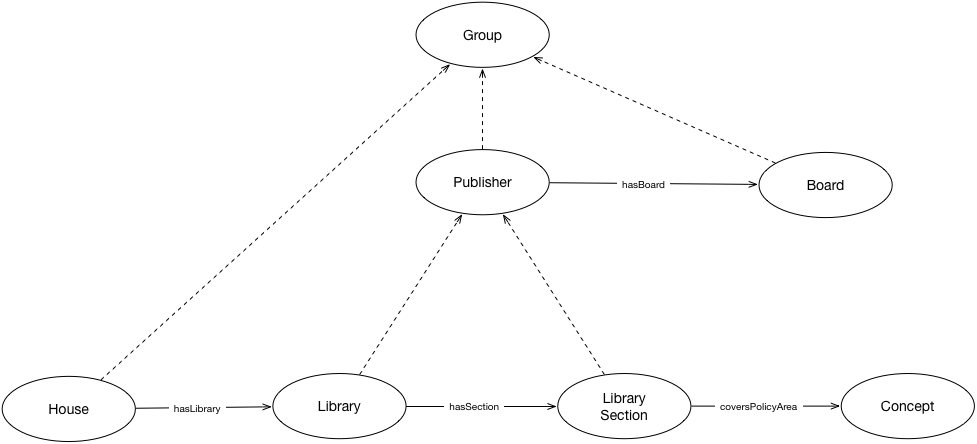
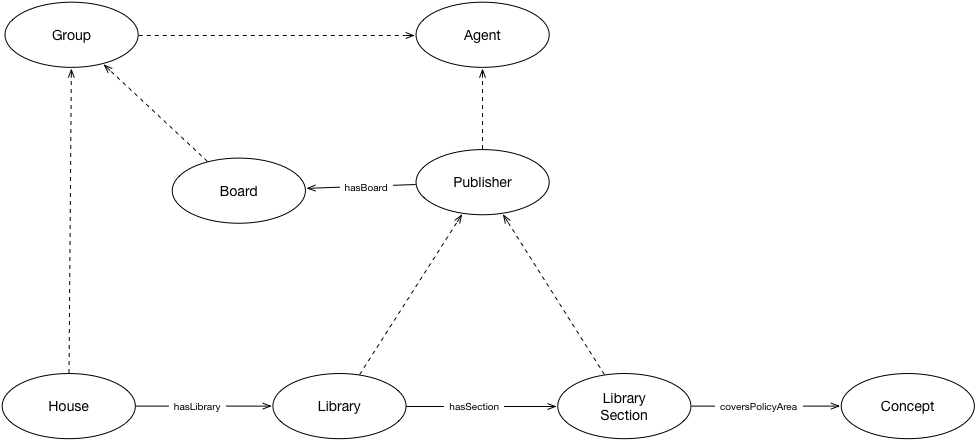
made publisher into subclass of agency

diff --git a/publisher/publisher-ontology.html b/publisher/publisher-ontology.html
@@ -6,6 +6,8 @@
 
 
 
+
+
 	
 
 
@@ -46,4 +48,6 @@
 
 
 
-<div id="classes"><h2>Classes</h2><ul class="hlist"><li><a href="#d4e86" title="http://parliament.uk/ontologies/publisher/Board">Board</a></li><li><a href="#d4e99" title="http://parliament.uk/ontologies/publisher/Concept">Concept</a></li><li><a href="#d4e110" title="http://parliament.uk/ontologies/publisher/Group">Group</a></li><li><a href="#d4e122" title="http://parliament.uk/ontologies/publisher/House">House</a></li><li><a href="#d4e135" title="http://parliament.uk/ontologies/publisher/Library">Library</a></li><li><a href="#d4e148" title="http://parliament.uk/ontologies/publisher/LibrarySection">LibrarySection</a></li><li><a href="#d4e162" title="http://parliament.uk/ontologies/publisher/Publisher">Publisher</a></li></ul><div id="d4e86" class="entity"><a name="http://parliament.uk/ontologies/publisher/Board"></a><h3>Board<sup title="class" class="type-c">c</sup><span class="backlink"> back to <a href="#toc">ToC</a> or <a href="#classes">Class ToC</a></span></h3><p><strong>IRI:</strong> http://parliament.uk/ontologies/publisher/Board</p><div class="comment"><span class="markdown">A group of people who direct the publisher e.g. POST has a board made up of Members of Parliament who consider and approve research areas to be covered.</span></div><dl class="description"><dt>has super-classes</dt><dd><a href="#d4e110" title="http://parliament.uk/ontologies/publisher/Group">Group</a><sup title="class" class="type-c">c</sup></dd><dt>is in range of</dt><dd><a href="#d4e38" title="http://parliament.uk/ontologies/publisher/hasBoard">hasBoard</a><sup title="object property" class="type-op">op</sup></dd></dl></div><div id="d4e99" class="entity"><a name="http://parliament.uk/ontologies/publisher/Concept"></a><h3>Concept<sup title="class" class="type-c">c</sup><span class="backlink"> back to <a href="#toc">ToC</a> or <a href="#classes">Class ToC</a></span></h3><p><strong>IRI:</strong> http://parliament.uk/ontologies/publisher/Concept</p><div class="comment"><span class="markdown">A concept. Similar to a SKOS concept / a library subject term.</span></div><dl class="description"><dt>is in range of</dt><dd><a href="#d4e22" title="http://parliament.uk/ontologies/publisher/coversPolicyArea">coversPolicyArea</a><sup title="object property" class="type-op">op</sup></dd></dl></div><div id="d4e110" class="entity"><a name="http://parliament.uk/ontologies/publisher/Group"></a><h3>Group<sup title="class" class="type-c">c</sup><span class="backlink"> back to <a href="#toc">ToC</a> or <a href="#classes">Class ToC</a></span></h3><p><strong>IRI:</strong> http://parliament.uk/ontologies/publisher/Group</p><div class="comment"><span class="markdown">A group of people or a group of groups or a group of people and groups.</span></div><dl class="description"><dt>has sub-classes</dt><dd><a href="#d4e86" title="http://parliament.uk/ontologies/publisher/Board">Board</a><sup title="class" class="type-c">c</sup>, <a href="#d4e122" title="http://parliament.uk/ontologies/publisher/House">House</a><sup title="class" class="type-c">c</sup>, <a href="#d4e162" title="http://parliament.uk/ontologies/publisher/Publisher">Publisher</a><sup title="class" class="type-c">c</sup></dd></dl></div><div id="d4e122" class="entity"><a name="http://parliament.uk/ontologies/publisher/House"></a><h3>House<sup title="class" class="type-c">c</sup><span class="backlink"> back to <a href="#toc">ToC</a> or <a href="#classes">Class ToC</a></span></h3><p><strong>IRI:</strong> http://parliament.uk/ontologies/publisher/House</p><div class="comment"><span class="markdown">A parliamentary House e.g. the House of Lords.</span></div><dl class="description"><dt>has super-classes</dt><dd><a href="#d4e110" title="http://parliament.uk/ontologies/publisher/Group">Group</a><sup title="class" class="type-c">c</sup></dd><dt>is in domain of</dt><dd><a href="#d4e53" title="http://parliament.uk/ontologies/publisher/hasLibrary">hasLibrary</a><sup title="object property" class="type-op">op</sup></dd></dl></div><div id="d4e135" class="entity"><a name="http://parliament.uk/ontologies/publisher/Library"></a><h3>Library<sup title="class" class="type-c">c</sup><span class="backlink"> back to <a href="#toc">ToC</a> or <a href="#classes">Class ToC</a></span></h3><p><strong>IRI:</strong> http://parliament.uk/ontologies/publisher/Library</p><div class="comment"><span class="markdown">One of the two parliamentary libraries. Either the House of Commons Library or the House of Lords Library.</span></div><dl class="description"><dt>has super-classes</dt><dd><a href="#d4e162" title="http://parliament.uk/ontologies/publisher/Publisher">Publisher</a><sup title="class" class="type-c">c</sup></dd><dt>is in domain of</dt><dd><a href="#d4e68" title="http://parliament.uk/ontologies/publisher/hasSection">hasSection</a><sup title="object property" class="type-op">op</sup></dd><dt>is in range of</dt><dd><a href="#d4e53" title="http://parliament.uk/ontologies/publisher/hasLibrary">hasLibrary</a><sup title="object property" class="type-op">op</sup></dd></dl></div><div id="d4e148" class="entity"><a name="http://parliament.uk/ontologies/publisher/LibrarySection"></a><h3>LibrarySection<sup title="class" class="type-c">c</sup><span class="backlink"> back to <a href="#toc">ToC</a> or <a href="#classes">Class ToC</a></span></h3><p><strong>IRI:</strong> http://parliament.uk/ontologies/publisher/LibrarySection</p><div class="comment"><span class="markdown">The House of Commons Library is divided into sections some of which are research sections and publishers. e.g. the Parliament and Constitution Centre.</span></div><dl class="description"><dt>has super-classes</dt><dd><a href="#d4e162" title="http://parliament.uk/ontologies/publisher/Publisher">Publisher</a><sup title="class" class="type-c">c</sup></dd><dt>is in domain of</dt><dd><a href="#d4e22" title="http://parliament.uk/ontologies/publisher/coversPolicyArea">coversPolicyArea</a><sup title="object property" class="type-op">op</sup></dd><dt>is in range of</dt><dd><a href="#d4e68" title="http://parliament.uk/ontologies/publisher/hasSection">hasSection</a><sup title="object property" class="type-op">op</sup></dd></dl></div><div id="d4e162" class="entity"><a name="http://parliament.uk/ontologies/publisher/Publisher"></a><h3>Publisher<sup title="class" class="type-c">c</sup><span class="backlink"> back to <a href="#toc">ToC</a> or <a href="#classes">Class ToC</a></span></h3><p><strong>IRI:</strong> http://parliament.uk/ontologies/publisher/Publisher</p><div class="comment"><span class="markdown">A publisher of recorded material.</span></div><dl class="description"><dt>has super-classes</dt><dd><a href="#d4e110" title="http://parliament.uk/ontologies/publisher/Group">Group</a><sup title="class" class="type-c">c</sup></dd><dt>has sub-classes</dt><dd><a href="#d4e135" title="http://parliament.uk/ontologies/publisher/Library">Library</a><sup title="class" class="type-c">c</sup>, <a href="#d4e148" title="http://parliament.uk/ontologies/publisher/LibrarySection">LibrarySection</a><sup title="class" class="type-c">c</sup></dd><dt>is in domain of</dt><dd><a href="#d4e38" title="http://parliament.uk/ontologies/publisher/hasBoard">hasBoard</a><sup title="object property" class="type-op">op</sup></dd></dl></div></div><div id="objectproperties"><h2>Object Properties</h2><ul class="hlist"><li><a href="#d4e22" title="http://parliament.uk/ontologies/publisher/coversPolicyArea">coversPolicyArea</a></li><li><a href="#d4e38" title="http://parliament.uk/ontologies/publisher/hasBoard">hasBoard</a></li><li><a href="#d4e53" title="http://parliament.uk/ontologies/publisher/hasLibrary">hasLibrary</a></li><li><a href="#d4e68" title="http://parliament.uk/ontologies/publisher/hasSection">hasSection</a></li></ul><div id="d4e22" class="entity"><a name="http://parliament.uk/ontologies/publisher/coversPolicyArea"></a><h3>coversPolicyArea<sup title="object property" class="type-op">op</sup><span class="backlink"> back to <a href="#toc">ToC</a> or <a href="#objectproperties">Object Property ToC</a></span></h3><p><strong>IRI:</strong> http://parliament.uk/ontologies/publisher/coversPolicyArea</p><div class="comment"><span class="markdown">Relates a library section to a policy area or policy areas as a SKOS-like concept.</span></div><div class="description"><dl><dt>has domain</dt><dd><a href="#d4e148" title="http://parliament.uk/ontologies/publisher/LibrarySection">LibrarySection</a><sup title="class" class="type-c">c</sup></dd><dt>has range</dt><dd><a href="#d4e99" title="http://parliament.uk/ontologies/publisher/Concept">Concept</a><sup title="class" class="type-c">c</sup></dd></dl></div></div><div id="d4e38" class="entity"><a name="http://parliament.uk/ontologies/publisher/hasBoard"></a><h3>hasBoard<sup title="object property" class="type-op">op</sup><span class="backlink"> back to <a href="#toc">ToC</a> or <a href="#objectproperties">Object Property ToC</a></span></h3><p><strong>IRI:</strong> http://parliament.uk/ontologies/publisher/hasBoard</p><div class="comment"><span class="markdown">Relates a publisher to its board.</span></div><div class="description"><dl><dt>has domain</dt><dd><a href="#d4e162" title="http://parliament.uk/ontologies/publisher/Publisher">Publisher</a><sup title="class" class="type-c">c</sup></dd><dt>has range</dt><dd><a href="#d4e86" title="http://parliament.uk/ontologies/publisher/Board">Board</a><sup title="class" class="type-c">c</sup></dd></dl></div></div><div id="d4e53" class="entity"><a name="http://parliament.uk/ontologies/publisher/hasLibrary"></a><h3>hasLibrary<sup title="object property" class="type-op">op</sup><span class="backlink"> back to <a href="#toc">ToC</a> or <a href="#objectproperties">Object Property ToC</a></span></h3><p><strong>IRI:</strong> http://parliament.uk/ontologies/publisher/hasLibrary</p><div class="comment"><span class="markdown">Relates a House to its library.</span></div><div class="description"><dl><dt>has domain</dt><dd><a href="#d4e122" title="http://parliament.uk/ontologies/publisher/House">House</a><sup title="class" class="type-c">c</sup></dd><dt>has range</dt><dd><a href="#d4e135" title="http://parliament.uk/ontologies/publisher/Library">Library</a><sup title="class" class="type-c">c</sup></dd></dl></div></div><div id="d4e68" class="entity"><a name="http://parliament.uk/ontologies/publisher/hasSection"></a><h3>hasSection<sup title="object property" class="type-op">op</sup><span class="backlink"> back to <a href="#toc">ToC</a> or <a href="#objectproperties">Object Property ToC</a></span></h3><p><strong>IRI:</strong> http://parliament.uk/ontologies/publisher/hasSection</p><div class="comment"><span class="markdown">Relates a library to a section.</span></div><div class="description"><dl><dt>has domain</dt><dd><a href="#d4e135" title="http://parliament.uk/ontologies/publisher/Library">Library</a><sup title="class" class="type-c">c</sup></dd><dt>has range</dt><dd><a href="#d4e148" title="http://parliament.uk/ontologies/publisher/LibrarySection">LibrarySection</a><sup title="class" class="type-c">c</sup></dd></dl></div></div></div><div id="namespacedeclarations"><h2>Namespace Declarations <span class="backlink"> back to <a href="#toc">ToC</a></span></h2><dl><dt><em>default namespace</em></dt><dd>http://parliament.uk/ontologies/publisher/</dd><dt>owl</dt><dd>http://www.w3.org/2002/07/owl#</dd><dt>rdf</dt><dd>http://www.w3.org/1999/02/22-rdf-syntax-ns#</dd><dt>rdfs</dt><dd>http://www.w3.org/2000/01/rdf-schema#</dd><dt>terms</dt><dd>http://purl.org/dc/terms/</dd><dt>xsd</dt><dd>http://www.w3.org/2001/XMLSchema#</dd></dl></div><p class="endnote">This HTML document was obtained by processing the OWL ontology source code through <a href="http://www.essepuntato.it/lode">LODE</a>, <em>Live OWL Documentation Environment</em>, developed by <a href="http://www.essepuntato.it">Silvio Peroni</a>.</p></body></html>
+
+
+<div id="classes"><h2>Classes</h2><ul class="hlist"><li><a href="#d4e86" title="http://parliament.uk/ontologies/publisher/Agent">Agent</a></li><li><a href="#d4e97" title="http://parliament.uk/ontologies/publisher/Board">Board</a></li><li><a href="#d4e110" title="http://parliament.uk/ontologies/publisher/Concept">Concept</a></li><li><a href="#d4e122" title="http://parliament.uk/ontologies/publisher/Group">Group</a></li><li><a href="#d4e135" title="http://parliament.uk/ontologies/publisher/House">House</a></li><li><a href="#d4e148" title="http://parliament.uk/ontologies/publisher/Library">Library</a></li><li><a href="#d4e162" title="http://parliament.uk/ontologies/publisher/LibrarySection">LibrarySection</a></li><li><a href="#d4e175" title="http://parliament.uk/ontologies/publisher/Publisher">Publisher</a></li></ul><div id="d4e86" class="entity"><a name="http://parliament.uk/ontologies/publisher/Agent"></a><h3>Agent<sup title="class" class="type-c">c</sup><span class="backlink"> back to <a href="#toc">ToC</a> or <a href="#classes">Class ToC</a></span></h3><p><strong>IRI:</strong> http://parliament.uk/ontologies/publisher/Agent</p><div class="comment"><span class="markdown">An agent. The superset of all people and all groups of people.</span></div><dl class="description"><dt>has sub-classes</dt><dd><a href="#d4e122" title="http://parliament.uk/ontologies/publisher/Group">Group</a><sup title="class" class="type-c">c</sup>, <a href="#d4e175" title="http://parliament.uk/ontologies/publisher/Publisher">Publisher</a><sup title="class" class="type-c">c</sup></dd></dl></div><div id="d4e97" class="entity"><a name="http://parliament.uk/ontologies/publisher/Board"></a><h3>Board<sup title="class" class="type-c">c</sup><span class="backlink"> back to <a href="#toc">ToC</a> or <a href="#classes">Class ToC</a></span></h3><p><strong>IRI:</strong> http://parliament.uk/ontologies/publisher/Board</p><div class="comment"><span class="markdown">A group of people who direct the publisher e.g. POST has a board made up of Members of Parliament who consider and approve research areas to be covered.</span></div><dl class="description"><dt>has super-classes</dt><dd><a href="#d4e122" title="http://parliament.uk/ontologies/publisher/Group">Group</a><sup title="class" class="type-c">c</sup></dd><dt>is in range of</dt><dd><a href="#d4e38" title="http://parliament.uk/ontologies/publisher/hasBoard">hasBoard</a><sup title="object property" class="type-op">op</sup></dd></dl></div><div id="d4e110" class="entity"><a name="http://parliament.uk/ontologies/publisher/Concept"></a><h3>Concept<sup title="class" class="type-c">c</sup><span class="backlink"> back to <a href="#toc">ToC</a> or <a href="#classes">Class ToC</a></span></h3><p><strong>IRI:</strong> http://parliament.uk/ontologies/publisher/Concept</p><div class="comment"><span class="markdown">A concept. Similar to a SKOS concept / a library subject term.</span></div><dl class="description"><dt>is in range of</dt><dd><a href="#d4e22" title="http://parliament.uk/ontologies/publisher/coversPolicyArea">coversPolicyArea</a><sup title="object property" class="type-op">op</sup></dd></dl></div><div id="d4e122" class="entity"><a name="http://parliament.uk/ontologies/publisher/Group"></a><h3>Group<sup title="class" class="type-c">c</sup><span class="backlink"> back to <a href="#toc">ToC</a> or <a href="#classes">Class ToC</a></span></h3><p><strong>IRI:</strong> http://parliament.uk/ontologies/publisher/Group</p><div class="comment"><span class="markdown">A group of people or a group of groups or a group of people and groups.</span></div><dl class="description"><dt>has super-classes</dt><dd><a href="#d4e86" title="http://parliament.uk/ontologies/publisher/Agent">Agent</a><sup title="class" class="type-c">c</sup></dd><dt>has sub-classes</dt><dd><a href="#d4e97" title="http://parliament.uk/ontologies/publisher/Board">Board</a><sup title="class" class="type-c">c</sup>, <a href="#d4e135" title="http://parliament.uk/ontologies/publisher/House">House</a><sup title="class" class="type-c">c</sup></dd></dl></div><div id="d4e135" class="entity"><a name="http://parliament.uk/ontologies/publisher/House"></a><h3>House<sup title="class" class="type-c">c</sup><span class="backlink"> back to <a href="#toc">ToC</a> or <a href="#classes">Class ToC</a></span></h3><p><strong>IRI:</strong> http://parliament.uk/ontologies/publisher/House</p><div class="comment"><span class="markdown">A parliamentary House e.g. the House of Lords.</span></div><dl class="description"><dt>has super-classes</dt><dd><a href="#d4e122" title="http://parliament.uk/ontologies/publisher/Group">Group</a><sup title="class" class="type-c">c</sup></dd><dt>is in domain of</dt><dd><a href="#d4e53" title="http://parliament.uk/ontologies/publisher/hasLibrary">hasLibrary</a><sup title="object property" class="type-op">op</sup></dd></dl></div><div id="d4e148" class="entity"><a name="http://parliament.uk/ontologies/publisher/Library"></a><h3>Library<sup title="class" class="type-c">c</sup><span class="backlink"> back to <a href="#toc">ToC</a> or <a href="#classes">Class ToC</a></span></h3><p><strong>IRI:</strong> http://parliament.uk/ontologies/publisher/Library</p><div class="comment"><span class="markdown">One of the two parliamentary libraries. Either the House of Commons Library or the House of Lords Library.</span></div><dl class="description"><dt>has super-classes</dt><dd><a href="#d4e175" title="http://parliament.uk/ontologies/publisher/Publisher">Publisher</a><sup title="class" class="type-c">c</sup></dd><dt>is in domain of</dt><dd><a href="#d4e68" title="http://parliament.uk/ontologies/publisher/hasSection">hasSection</a><sup title="object property" class="type-op">op</sup></dd><dt>is in range of</dt><dd><a href="#d4e53" title="http://parliament.uk/ontologies/publisher/hasLibrary">hasLibrary</a><sup title="object property" class="type-op">op</sup></dd></dl></div><div id="d4e162" class="entity"><a name="http://parliament.uk/ontologies/publisher/LibrarySection"></a><h3>LibrarySection<sup title="class" class="type-c">c</sup><span class="backlink"> back to <a href="#toc">ToC</a> or <a href="#classes">Class ToC</a></span></h3><p><strong>IRI:</strong> http://parliament.uk/ontologies/publisher/LibrarySection</p><div class="comment"><span class="markdown">The House of Commons Library is divided into sections some of which are research sections and publishers. e.g. the Parliament and Constitution Centre.</span></div><dl class="description"><dt>has super-classes</dt><dd><a href="#d4e175" title="http://parliament.uk/ontologies/publisher/Publisher">Publisher</a><sup title="class" class="type-c">c</sup></dd><dt>is in domain of</dt><dd><a href="#d4e22" title="http://parliament.uk/ontologies/publisher/coversPolicyArea">coversPolicyArea</a><sup title="object property" class="type-op">op</sup></dd><dt>is in range of</dt><dd><a href="#d4e68" title="http://parliament.uk/ontologies/publisher/hasSection">hasSection</a><sup title="object property" class="type-op">op</sup></dd></dl></div><div id="d4e175" class="entity"><a name="http://parliament.uk/ontologies/publisher/Publisher"></a><h3>Publisher<sup title="class" class="type-c">c</sup><span class="backlink"> back to <a href="#toc">ToC</a> or <a href="#classes">Class ToC</a></span></h3><p><strong>IRI:</strong> http://parliament.uk/ontologies/publisher/Publisher</p><div class="comment"><span class="markdown">A publisher of recorded material.</span></div><dl class="description"><dt>has super-classes</dt><dd><a href="#d4e86" title="http://parliament.uk/ontologies/publisher/Agent">Agent</a><sup title="class" class="type-c">c</sup></dd><dt>has sub-classes</dt><dd><a href="#d4e148" title="http://parliament.uk/ontologies/publisher/Library">Library</a><sup title="class" class="type-c">c</sup>, <a href="#d4e162" title="http://parliament.uk/ontologies/publisher/LibrarySection">LibrarySection</a><sup title="class" class="type-c">c</sup></dd><dt>is in domain of</dt><dd><a href="#d4e38" title="http://parliament.uk/ontologies/publisher/hasBoard">hasBoard</a><sup title="object property" class="type-op">op</sup></dd></dl></div></div><div id="objectproperties"><h2>Object Properties</h2><ul class="hlist"><li><a href="#d4e22" title="http://parliament.uk/ontologies/publisher/coversPolicyArea">coversPolicyArea</a></li><li><a href="#d4e38" title="http://parliament.uk/ontologies/publisher/hasBoard">hasBoard</a></li><li><a href="#d4e53" title="http://parliament.uk/ontologies/publisher/hasLibrary">hasLibrary</a></li><li><a href="#d4e68" title="http://parliament.uk/ontologies/publisher/hasSection">hasSection</a></li></ul><div id="d4e22" class="entity"><a name="http://parliament.uk/ontologies/publisher/coversPolicyArea"></a><h3>coversPolicyArea<sup title="object property" class="type-op">op</sup><span class="backlink"> back to <a href="#toc">ToC</a> or <a href="#objectproperties">Object Property ToC</a></span></h3><p><strong>IRI:</strong> http://parliament.uk/ontologies/publisher/coversPolicyArea</p><div class="comment"><span class="markdown">Relates a library section to a policy area or policy areas as a SKOS-like concept.</span></div><div class="description"><dl><dt>has domain</dt><dd><a href="#d4e162" title="http://parliament.uk/ontologies/publisher/LibrarySection">LibrarySection</a><sup title="class" class="type-c">c</sup></dd><dt>has range</dt><dd><a href="#d4e110" title="http://parliament.uk/ontologies/publisher/Concept">Concept</a><sup title="class" class="type-c">c</sup></dd></dl></div></div><div id="d4e38" class="entity"><a name="http://parliament.uk/ontologies/publisher/hasBoard"></a><h3>hasBoard<sup title="object property" class="type-op">op</sup><span class="backlink"> back to <a href="#toc">ToC</a> or <a href="#objectproperties">Object Property ToC</a></span></h3><p><strong>IRI:</strong> http://parliament.uk/ontologies/publisher/hasBoard</p><div class="comment"><span class="markdown">Relates a publisher to its board.</span></div><div class="description"><dl><dt>has domain</dt><dd><a href="#d4e175" title="http://parliament.uk/ontologies/publisher/Publisher">Publisher</a><sup title="class" class="type-c">c</sup></dd><dt>has range</dt><dd><a href="#d4e97" title="http://parliament.uk/ontologies/publisher/Board">Board</a><sup title="class" class="type-c">c</sup></dd></dl></div></div><div id="d4e53" class="entity"><a name="http://parliament.uk/ontologies/publisher/hasLibrary"></a><h3>hasLibrary<sup title="object property" class="type-op">op</sup><span class="backlink"> back to <a href="#toc">ToC</a> or <a href="#objectproperties">Object Property ToC</a></span></h3><p><strong>IRI:</strong> http://parliament.uk/ontologies/publisher/hasLibrary</p><div class="comment"><span class="markdown">Relates a House to its library.</span></div><div class="description"><dl><dt>has domain</dt><dd><a href="#d4e135" title="http://parliament.uk/ontologies/publisher/House">House</a><sup title="class" class="type-c">c</sup></dd><dt>has range</dt><dd><a href="#d4e148" title="http://parliament.uk/ontologies/publisher/Library">Library</a><sup title="class" class="type-c">c</sup></dd></dl></div></div><div id="d4e68" class="entity"><a name="http://parliament.uk/ontologies/publisher/hasSection"></a><h3>hasSection<sup title="object property" class="type-op">op</sup><span class="backlink"> back to <a href="#toc">ToC</a> or <a href="#objectproperties">Object Property ToC</a></span></h3><p><strong>IRI:</strong> http://parliament.uk/ontologies/publisher/hasSection</p><div class="comment"><span class="markdown">Relates a library to a section.</span></div><div class="description"><dl><dt>has domain</dt><dd><a href="#d4e148" title="http://parliament.uk/ontologies/publisher/Library">Library</a><sup title="class" class="type-c">c</sup></dd><dt>has range</dt><dd><a href="#d4e162" title="http://parliament.uk/ontologies/publisher/LibrarySection">LibrarySection</a><sup title="class" class="type-c">c</sup></dd></dl></div></div></div><div id="namespacedeclarations"><h2>Namespace Declarations <span class="backlink"> back to <a href="#toc">ToC</a></span></h2><dl><dt><em>default namespace</em></dt><dd>http://parliament.uk/ontologies/publisher/</dd><dt>owl</dt><dd>http://www.w3.org/2002/07/owl#</dd><dt>rdf</dt><dd>http://www.w3.org/1999/02/22-rdf-syntax-ns#</dd><dt>rdfs</dt><dd>http://www.w3.org/2000/01/rdf-schema#</dd><dt>terms</dt><dd>http://purl.org/dc/terms/</dd><dt>xsd</dt><dd>http://www.w3.org/2001/XMLSchema#</dd></dl></div><p class="endnote">This HTML document was obtained by processing the OWL ontology source code through <a href="http://www.essepuntato.it/lode">LODE</a>, <em>Live OWL Documentation Environment</em>, developed by <a href="http://www.essepuntato.it">Silvio Peroni</a>.</p></body></html>
